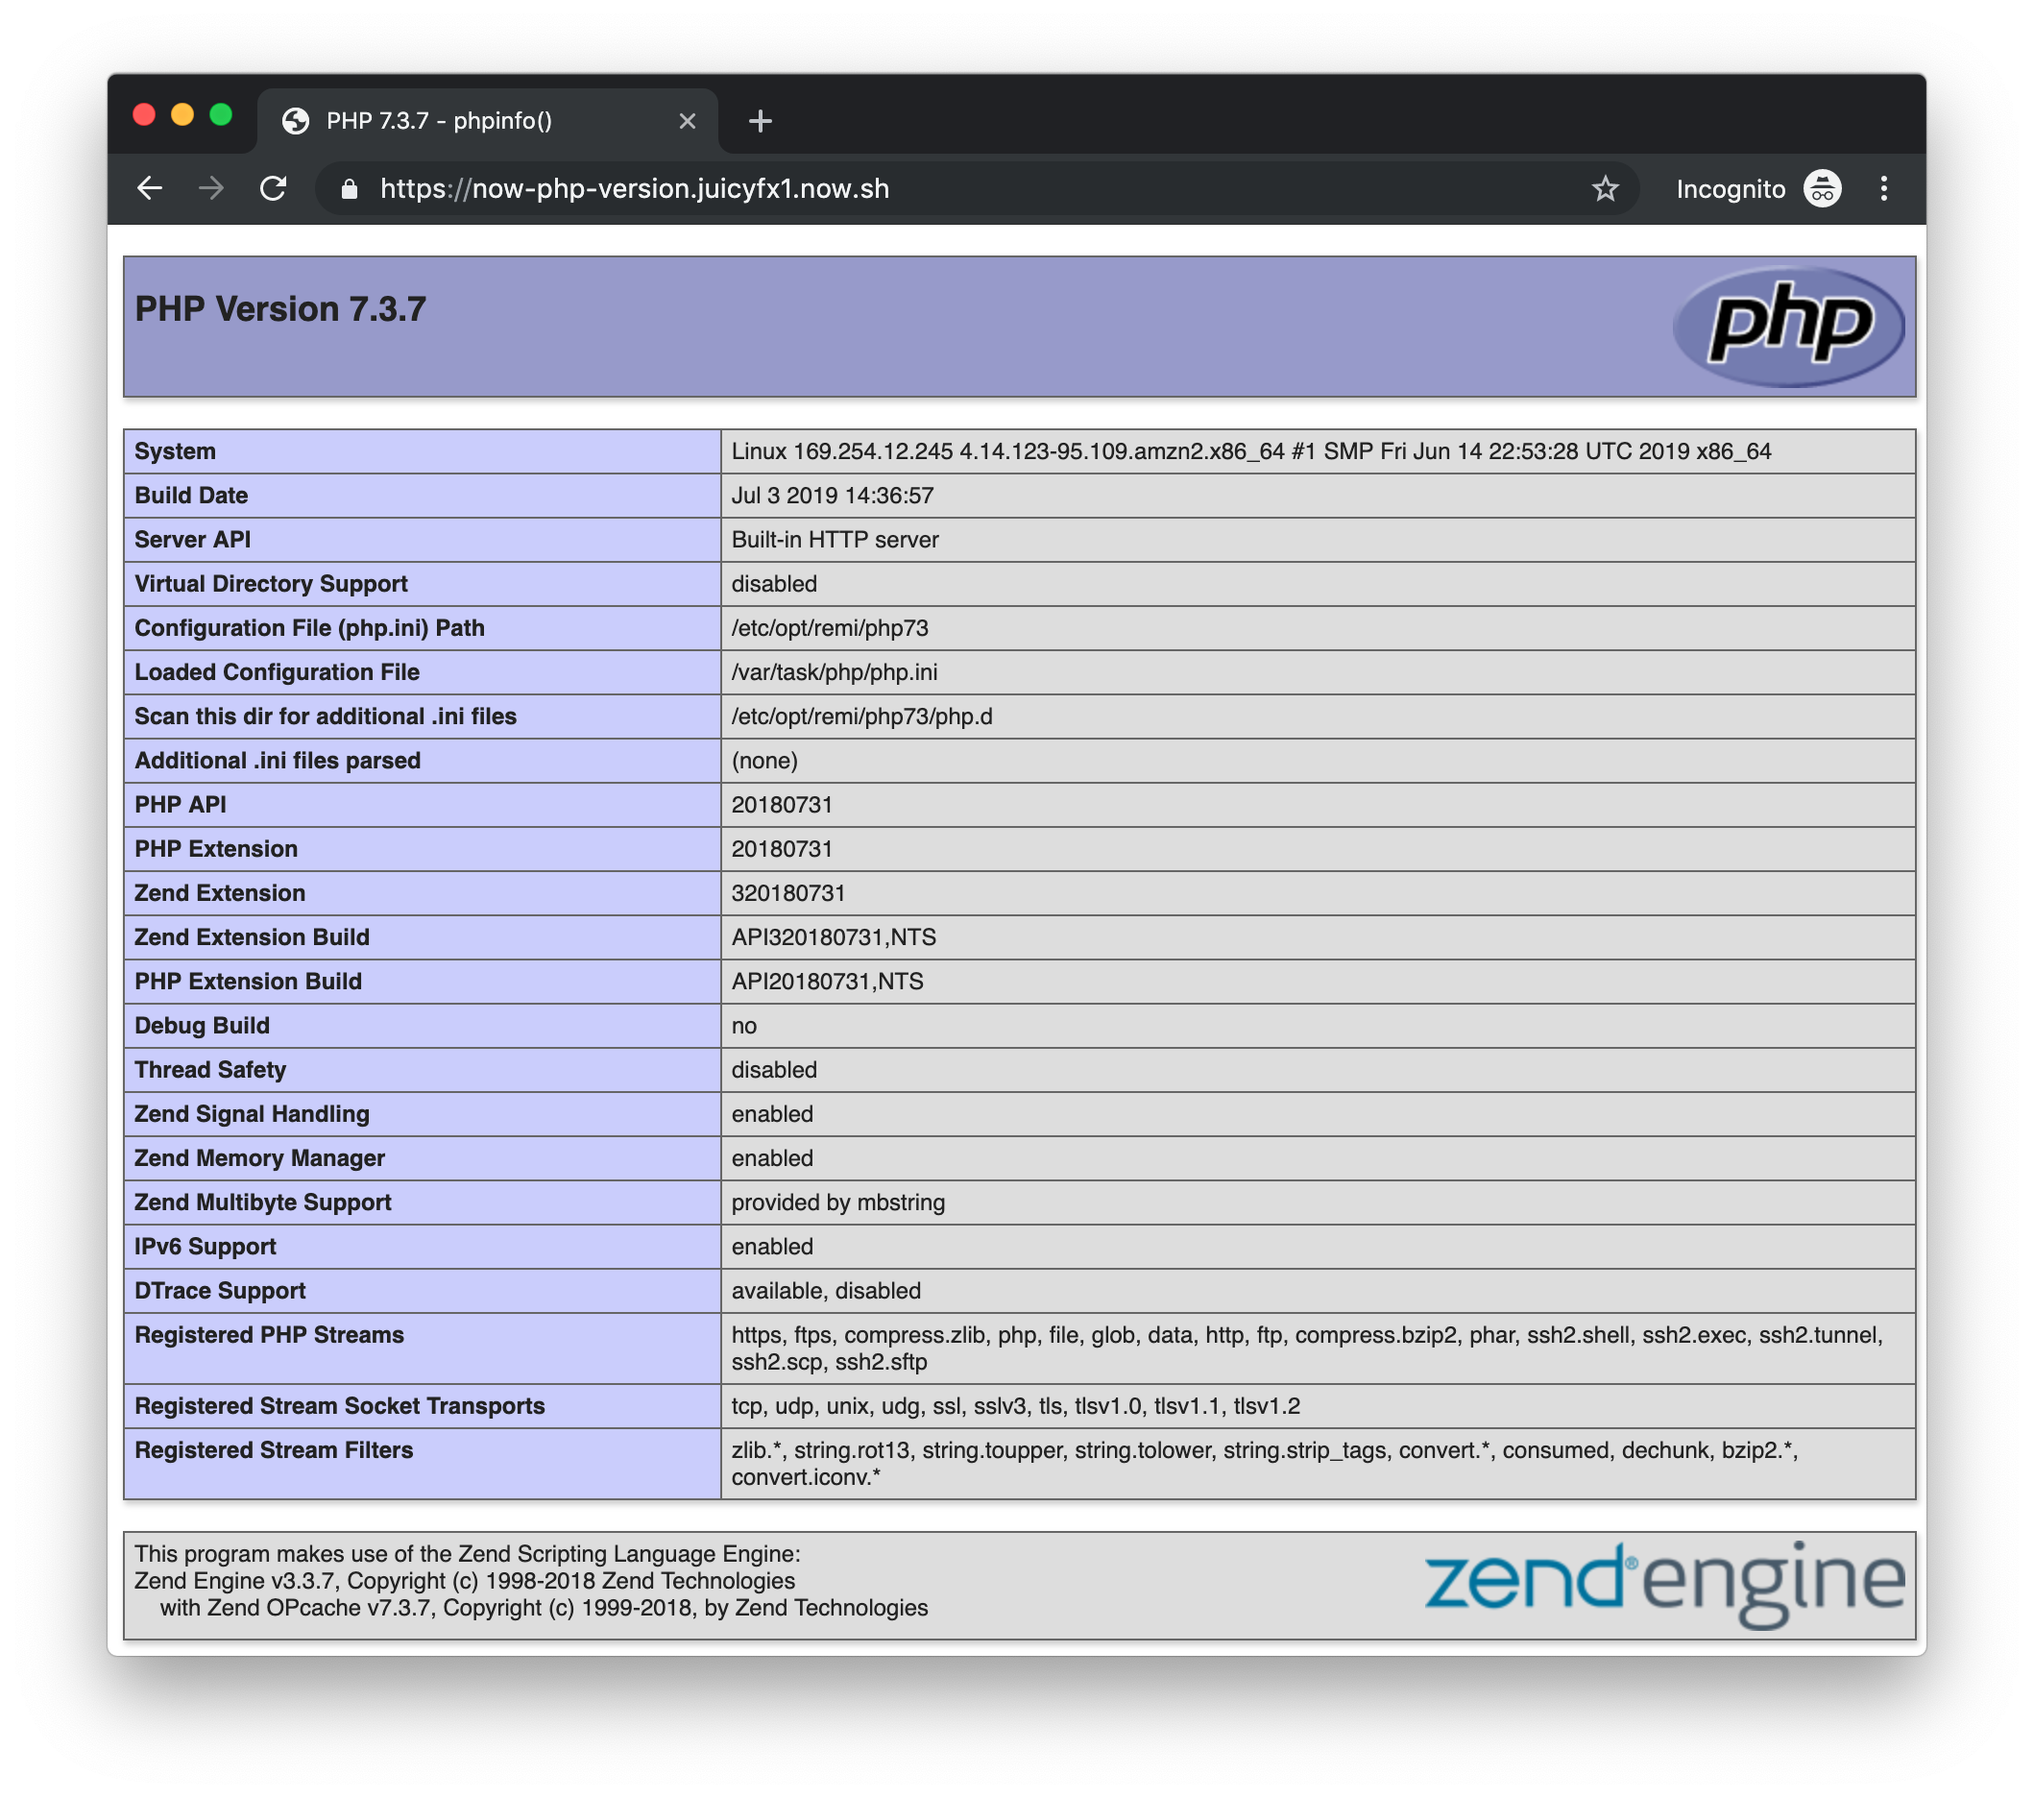
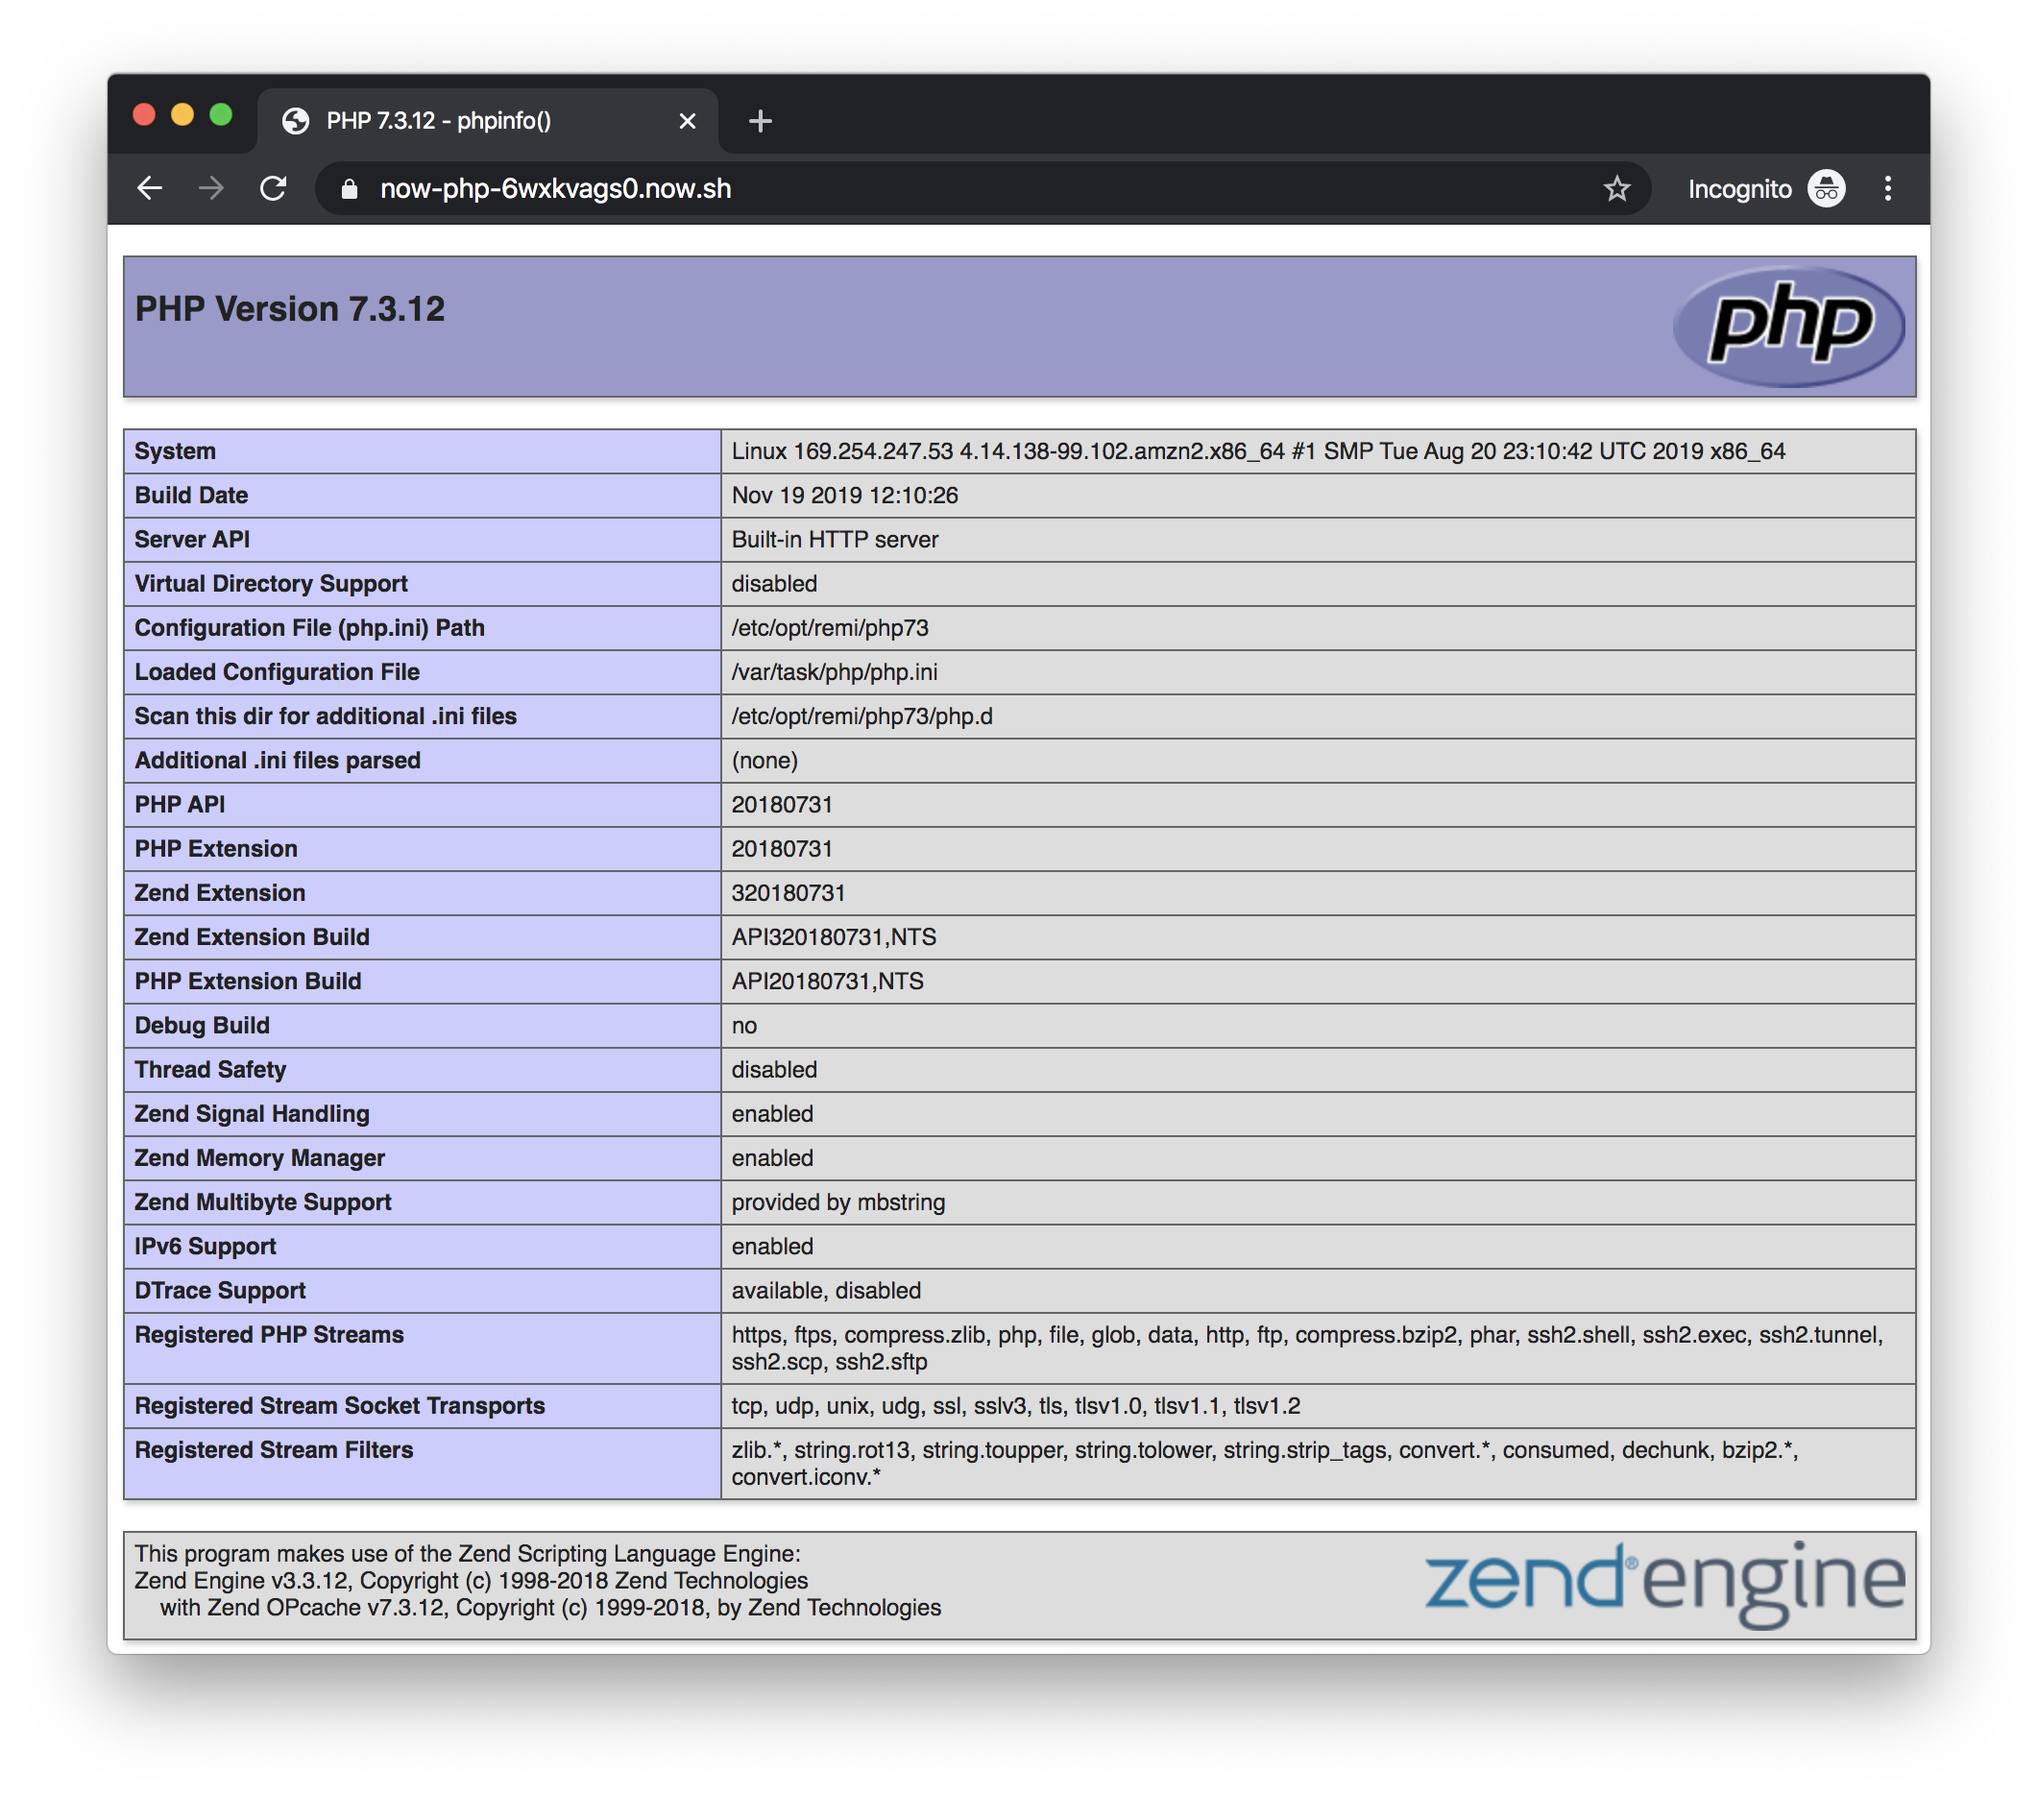
Readme: bump PHP 7.3.12

diff --git a/README.md b/README.md
@@ -38,7 +38,7 @@ Enjoyable & powerful 🐘 PHP Runtime for ZEIT Now.
 ## 🤗 Features
 
 - **Architecture**: PHP development server (🚀 fast enough)
-- **PHP version**: 7.3.8
+- **PHP version**: 7.3.12
 - **Extensions**: apcu, bcmath, bz2, calendar, Core, ctype, curl, date, dom, ds, exif, fileinfo, filter, ftp, gettext, hash, iconv, json, libxml, mbstring, mysqli, mysqlnd, openssl, pcntl, pcre, PDO, pdo_mysql, pdo_pgsql, pdo_sqlite, phalcon, Phar, readline, Reflection, session, SimpleXML, soap, sockets, sodium, SPL, sqlite3, ssh2, standard, swoole, tokenizer, xml, xmlreader, xmlrpc, xmlwriter, xsl, Zend OPcache, zlib
 - **Speed**: cold ~250ms / warm ~5ms
 - **Memory**: ~90mb
